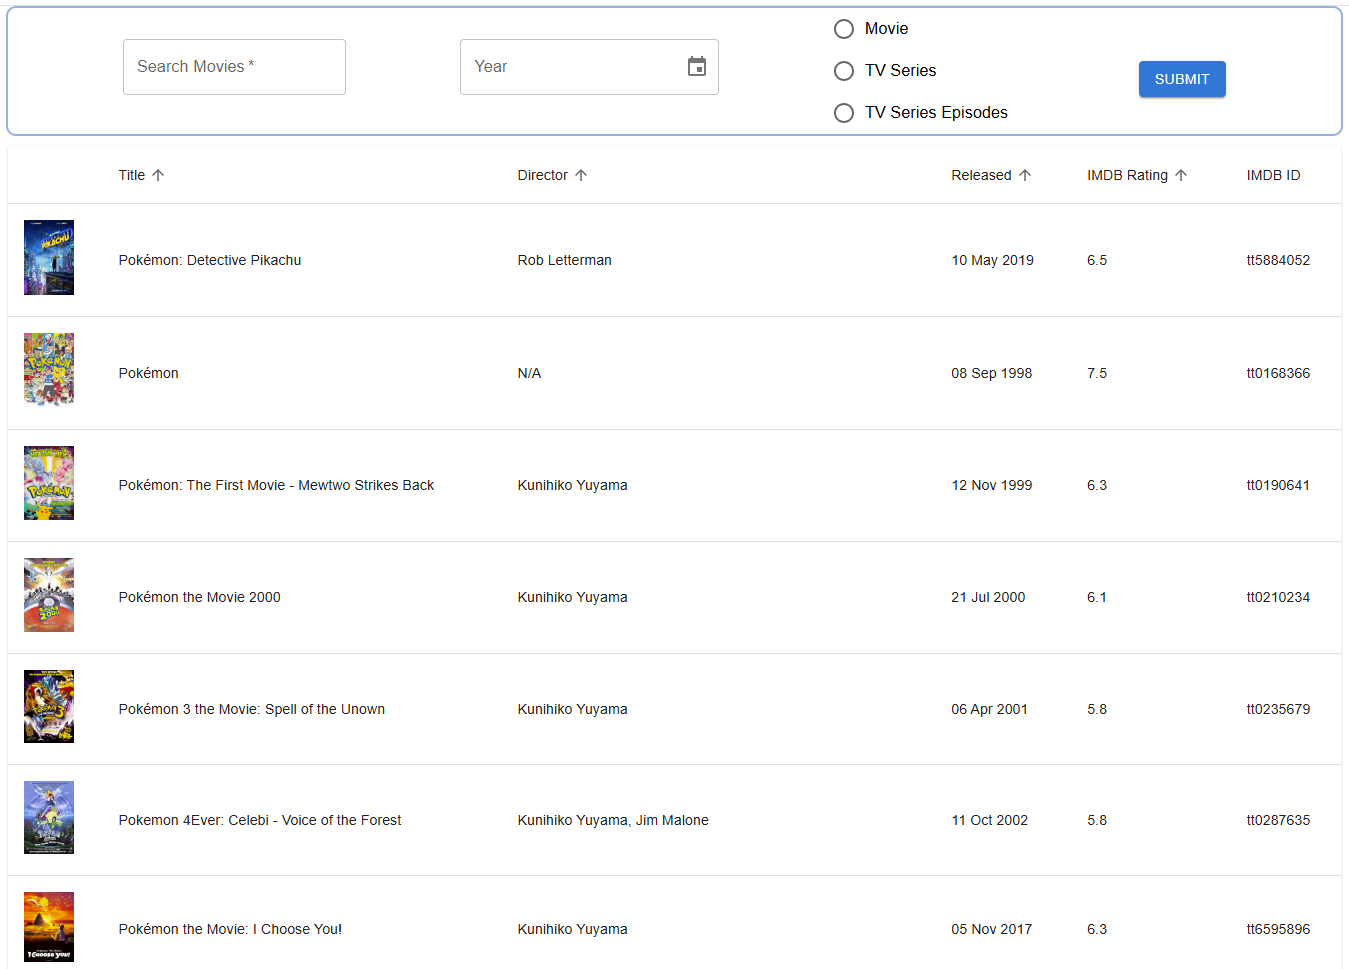
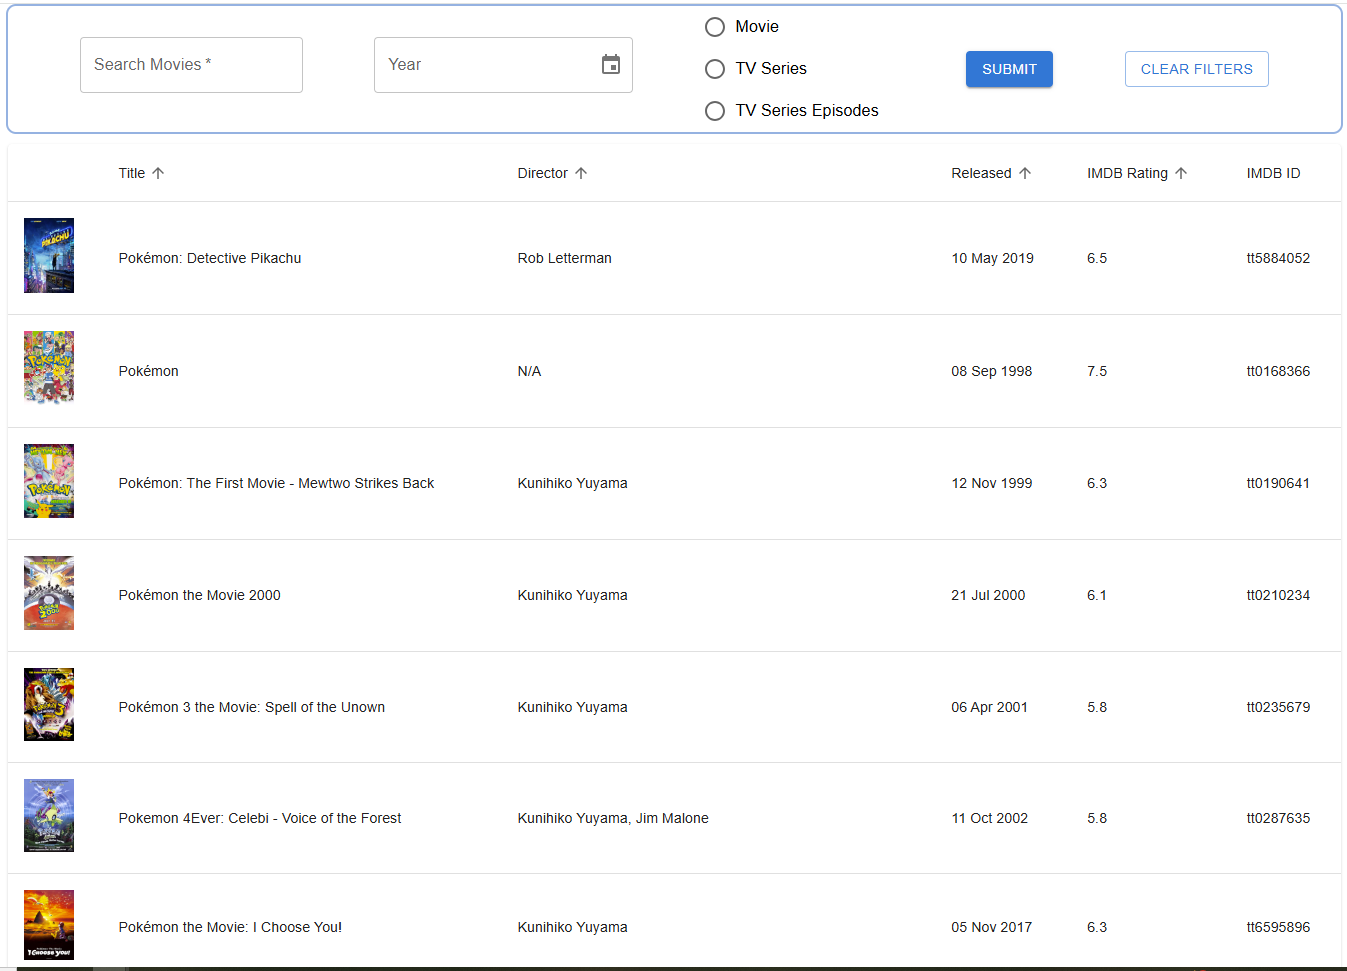
Clear button is added.

diff --git a/src/components/Filters/index.tsx b/src/components/Filters/index.tsx
@@ -11,30 +11,29 @@ import './Filters.css'
 
 interface FilterProps {
   filterText: string;
-  setFilterText: React.Dispatch<React.SetStateAction<string>>;
-  setPage:React.Dispatch<React.SetStateAction<number>>;
+  searchText: string;
+  setSearchText: React.Dispatch<React.SetStateAction<string>>;
+  selectedYear: Dayjs | null;
+  setSelectedYear: React.Dispatch<React.SetStateAction<Dayjs | null>>;
+  type: string;
+  setType: React.Dispatch<React.SetStateAction<string>>;
+  applyFilters: () => void;
+  clearFilters: () => void;
 }
 
-const Filters: React.FC<FilterProps> = ({ filterText, setFilterText, setPage }) => {
-  const [searchText, setSearchText] = useState<string>("");
-  const [selectedYear, setSelectedYear] = useState<Dayjs | null>(null);
-  const [type, setType] = useState<string>('');
-
-  const handleSubmit = (event: React.FormEvent) => {
-    event.preventDefault();
-    let newFilterText  = `s=${searchText}`
-    if(selectedYear){
-        newFilterText = `${newFilterText}&y=${selectedYear.year()}`
-    }
-    if(type){
-        newFilterText = `${newFilterText}&type=${type}`
-    }
-    setPage(1);
-    setFilterText(newFilterText)
-  };
+const Filters: React.FC<FilterProps> = ({
+  searchText,
+  setSearchText,
+  selectedYear,
+  setSelectedYear,
+  type,
+  setType,
+  applyFilters,
+  clearFilters,
+}) => {
 
   return (
-    <form className="filter-container" onSubmit={handleSubmit}>
+    <div className="filter-container">
       <TextField
         required
         label="Search Movies"
@@ -58,22 +57,17 @@ const Filters: React.FC<FilterProps> = ({ filterText, setFilterText, setPage }) 
           name="type-group"
         >
           <FormControlLabel value="movie" control={<Radio />} label="Movie" />
-          <FormControlLabel
-            value="series"
-            control={<Radio />}
-            label="TV Series"
-          />
-          <FormControlLabel
-            value="episode"
-            control={<Radio />}
-            label="TV Series Episodes"
-          />
+          <FormControlLabel value="series" control={<Radio />} label="TV Series" />
+          <FormControlLabel value="episode" control={<Radio />} label="TV Series Episodes" />
         </RadioGroup>
       </FormControl>
-      <Button variant="contained" type="submit" sx={{ marginTop: 2 }}>
+      <Button variant="contained" onClick={applyFilters}>
         Submit
       </Button>
-    </form>
+      <Button variant="outlined" onClick={clearFilters}>
+        Clear Filters
+      </Button>
+    </div>
   );
 };
 

diff --git a/src/pages/Home.tsx b/src/pages/Home.tsx
@@ -5,6 +5,8 @@ import MovieTable from '../components/MovieTable'
 import Filters from '../components/Filters'
 import { Pagination } from "@mui/material";
 import './Home.css'
+import { Dayjs } from "dayjs";
+import { MovieData } from '../interfaces/MovieData'
 function Home() {
   const [movies, setMovies] = useState<any>([]);
   const [page, setPage] = useState<number>(1);
@@ -12,6 +14,10 @@ function Home() {
   const [filterText, setFilterText] = useState<string>('s=Pokemon');
   const [loading, setLoading] = useState<boolean>(true);
   const [error, setError] = useState<string | null>(null);
+
+  const [searchText, setSearchText] = useState<string>("Pokemon");
+  const [selectedYear, setSelectedYear] = useState<Dayjs | null>(null);
+  const [type, setType] = useState<string>("");
 
   useEffect(() => {
       const fetchUser = async () => {
@@ -38,7 +44,22 @@ function Home() {
   const handlePageChange = (event: React.ChangeEvent<unknown>, value: number) => {
       setPage(value);
   };
-
+  const applyFilters = () => {
+    let newFilterText = `s=${searchText}`;
+    if (selectedYear) {
+        newFilterText = `${newFilterText}&y=${selectedYear.year()}`;
+    }
+    if (type) {
+        newFilterText = `${newFilterText}&type=${type}`;
+    }
+    setPage(1);
+    setFilterText(newFilterText);
+};
+const clearFilters = () => {
+    setSearchText("");
+    setSelectedYear(null);
+    setType("");
+};
   return (
       <div className='homepage-container'>
           {loading ? (
@@ -47,7 +68,17 @@ function Home() {
               <span style={{ marginTop: '15%' }}>{error}</span>
           ) : numberOfPages > 0 ? (
               <>
-                  <Filters filterText={filterText} setFilterText={setFilterText} setPage={setPage} />
+                  <Filters
+                      filterText={filterText}
+                      searchText={searchText}
+                      setSearchText={setSearchText}
+                      selectedYear={selectedYear}
+                      setSelectedYear={setSelectedYear}
+                      type={type}
+                      setType={setType}
+                      applyFilters={applyFilters}
+                      clearFilters={clearFilters}
+                  />
                   <MovieTable data={movies} />
                   <Pagination
                       count={numberOfPages}
